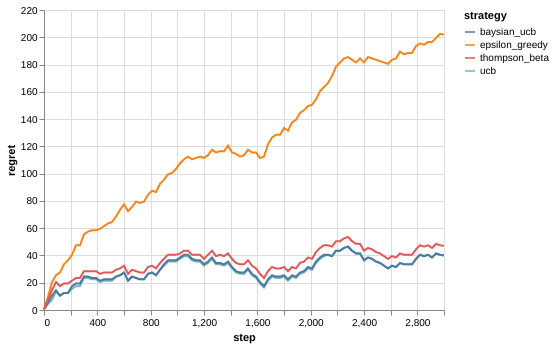
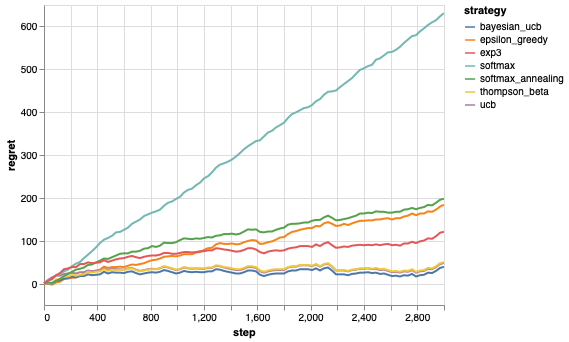
update README

diff --git a/README.md b/README.md
@@ -7,6 +7,8 @@ This repo contains a simple framework to run multi-armed bandit algorithms with 
     - Upper Confidence Bound algorithm
     - Bayesian Upper Confidence Bound algorithm
     - Thompson Sampling algorithm
+    - Softmax algorithm
+    - Exp3 algorithm
 - [environment](src/environment.py) - create one-time run environment with a given bandit and multi-armed bandit algorithms.
 - [experiment](src/experiment.py) - multiple runs of a given environment.
 
